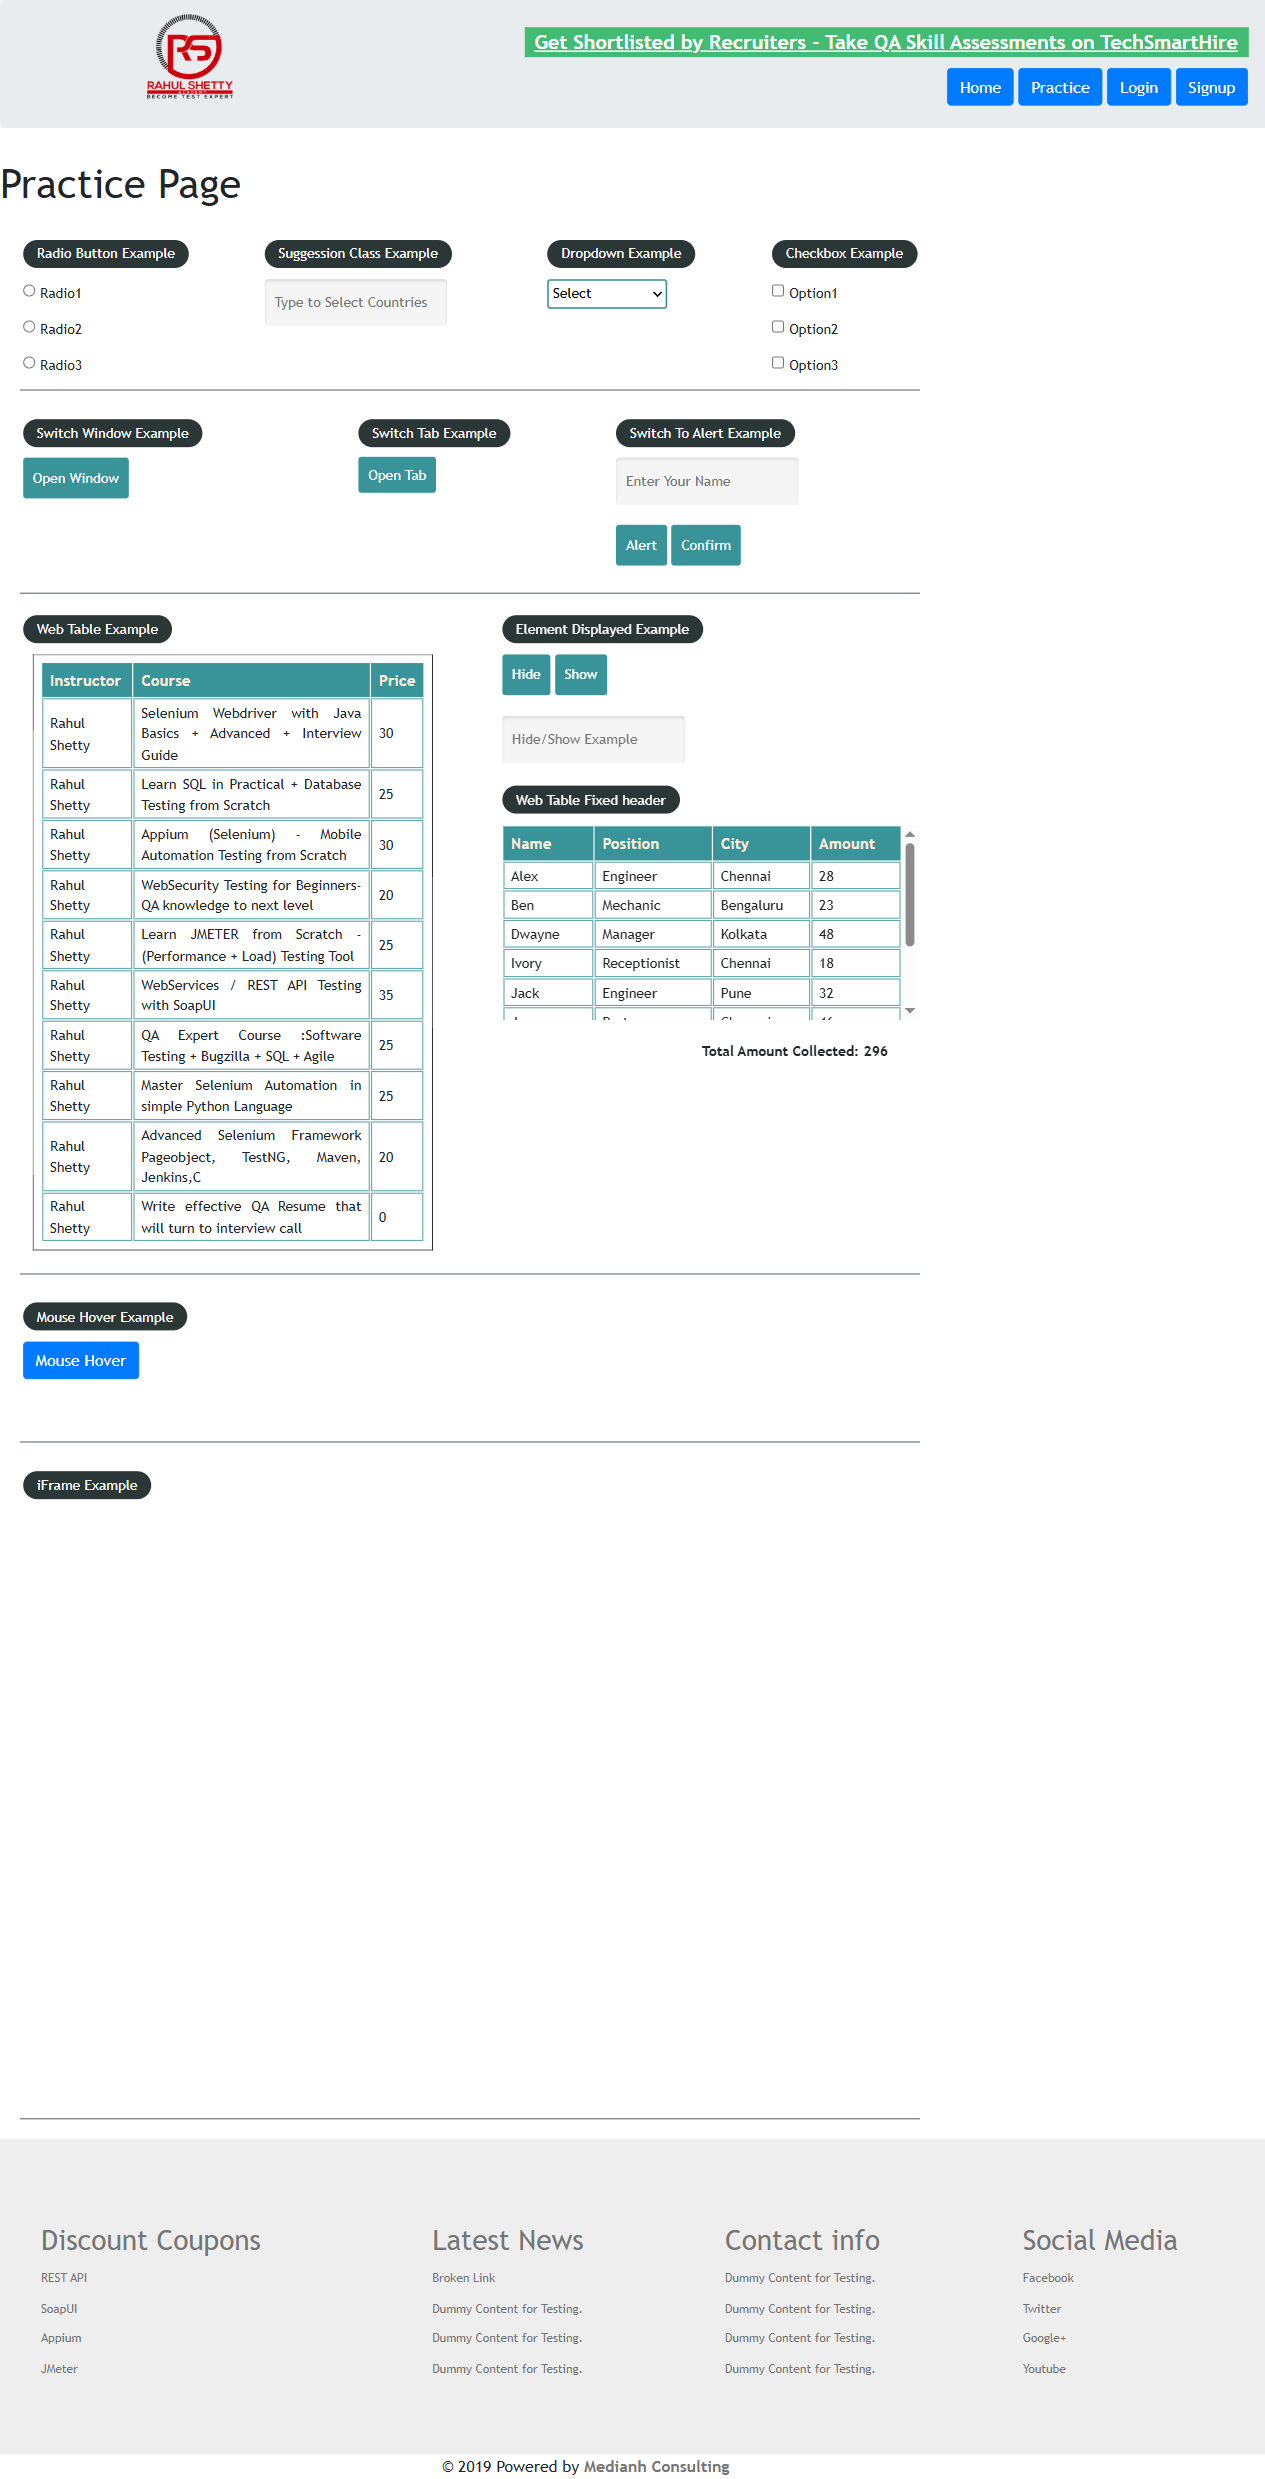
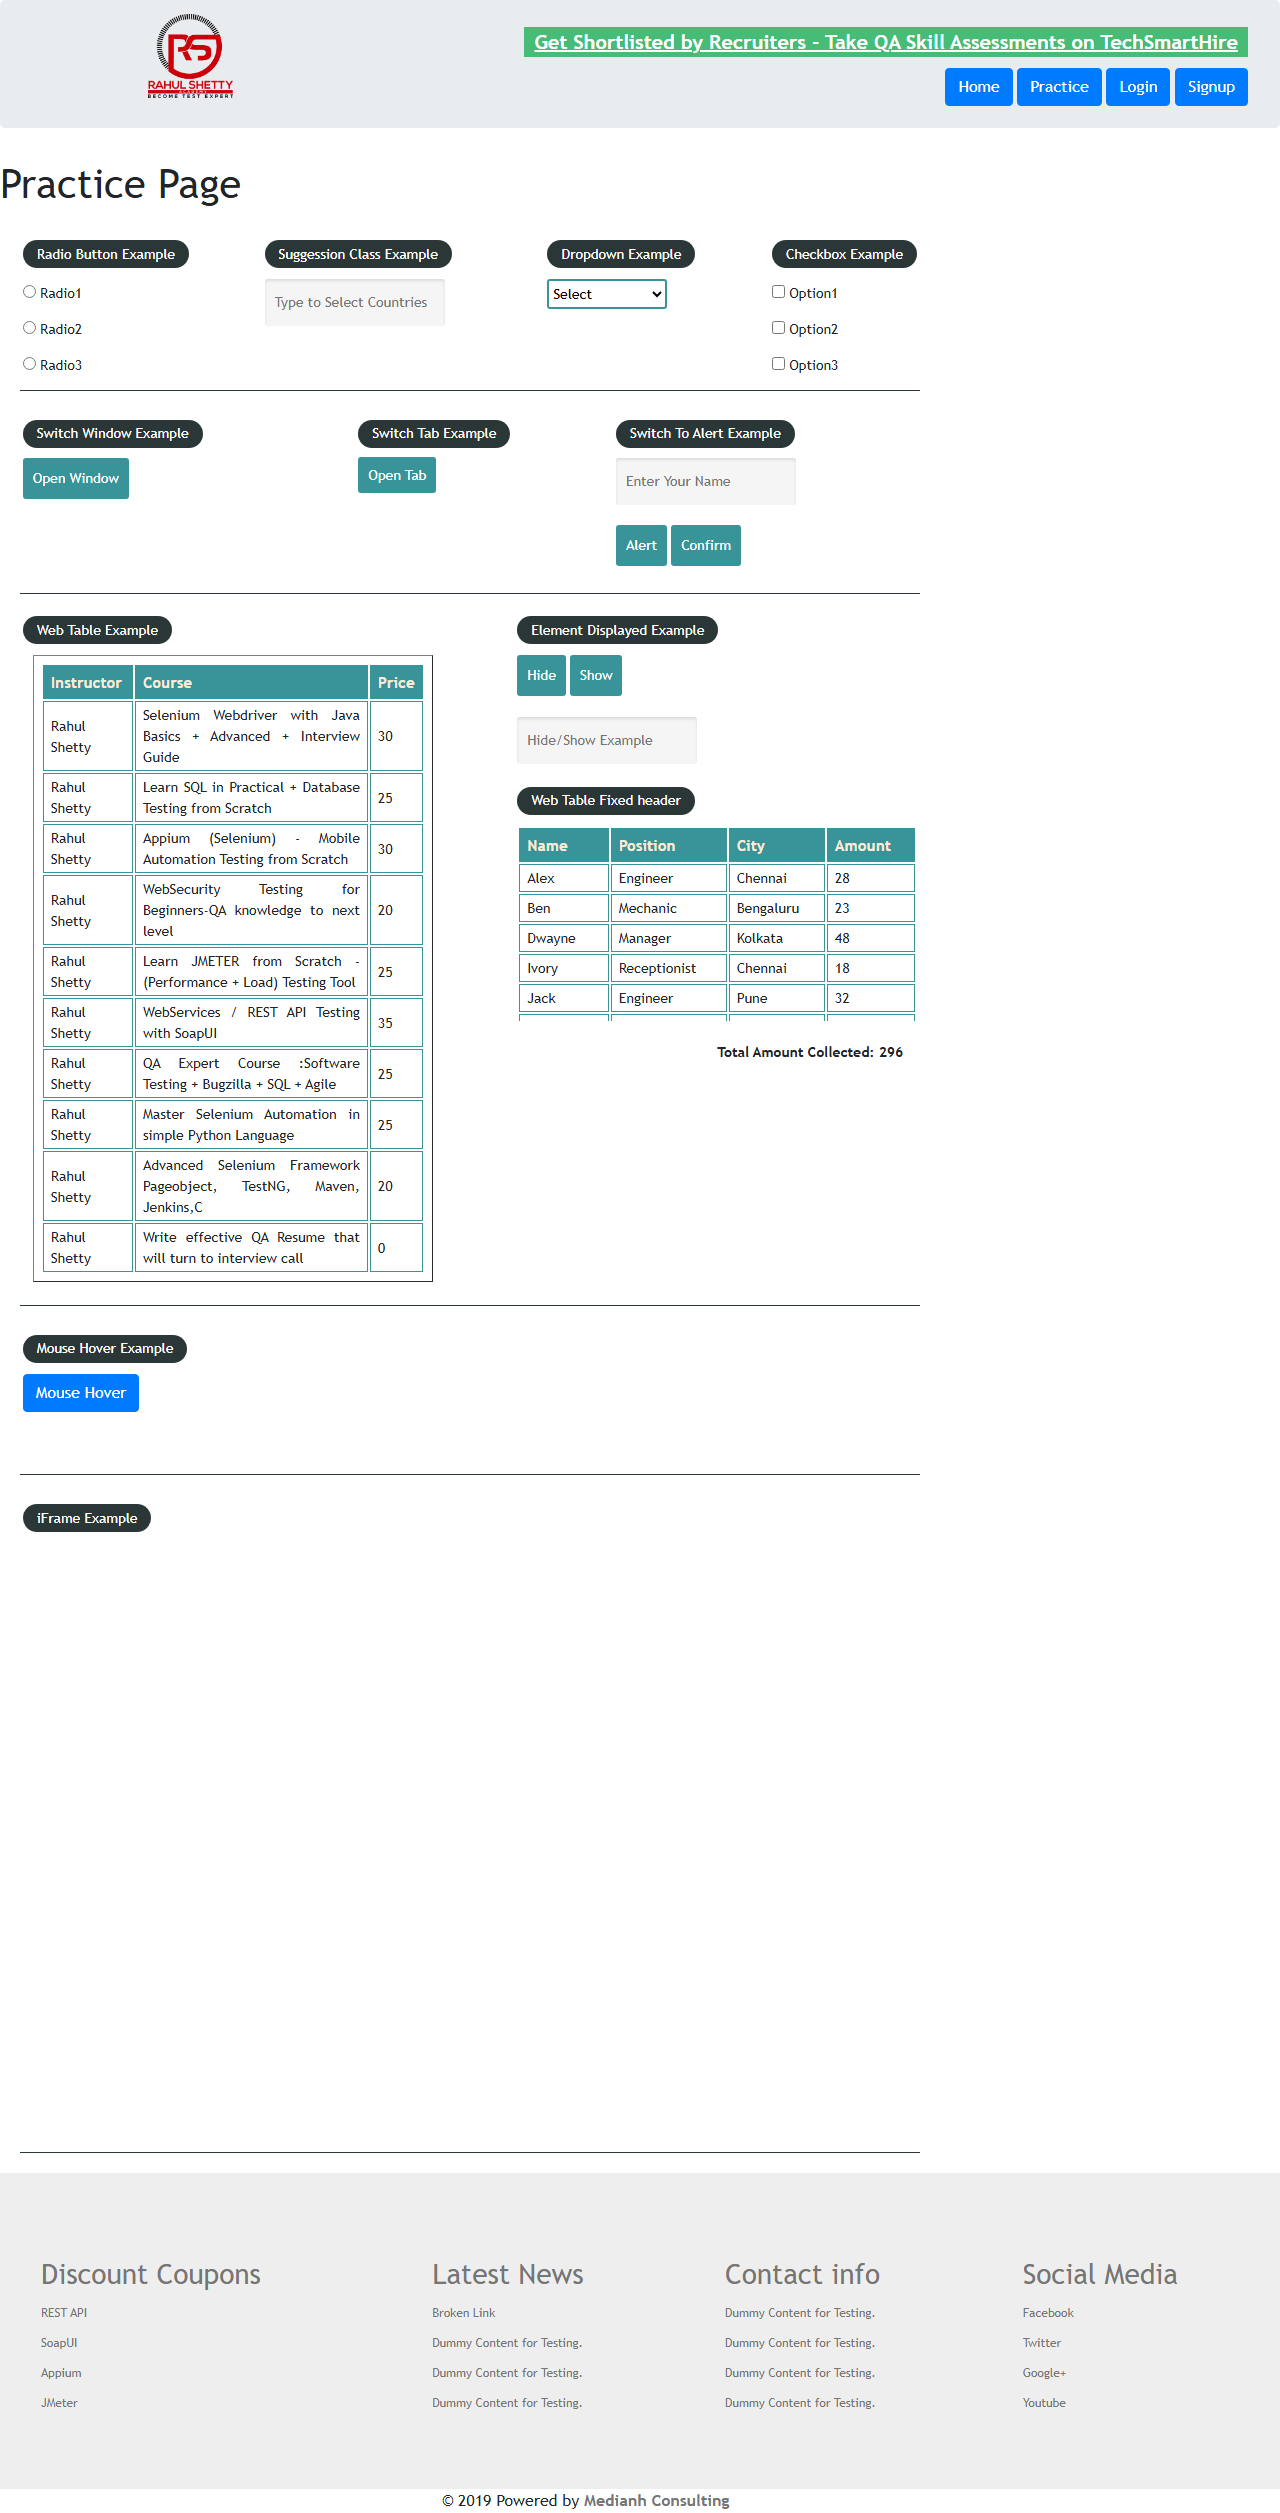
checkbox added

diff --git a/tests/checkbox.spec.ts b/tests/checkbox.spec.ts
@@ -1,0 +1,34 @@
+// Q5. Checkbox Group Validation
+// Scenario:
+// A permission settings page has 12 checkboxes grouped under "Admin", "Editor", and "Viewer" roles. You need to:
+// 1. Check all checkboxes under "Editor" role
+// 2. Uncheck all under "Viewer" role
+// 3. Assert exactly 4 checkboxes are now checked in total
+
+import test, { expect } from "@playwright/test";
+
+// Q6. Autocomplete / Typeahead Dropdown
+// Scenario:
+// A form has a country search field. When you type "Ind", a dropdown appears with options like "India", "Indiana (US)", "Indonesia". You must:
+// 1. Type "Ind" into the field
+// 2. Wait for the dropdown to appear
+// 3. Select exactly "India" (not partial matches)
+// 4. Assert the field now shows "India"
+ 
+// ✏ Write Playwright code handling the async dropdown appearance without waitForTimeout.
+
+// Q8. Multi-Select Listbox
+// Scenario:
+// A user management form has a multi-select <select> element listing 20 cities. You need to select "Mumbai", "Delhi", and "Bangalore" while leaving all others unselected.
+ 
+// ✏ Write Playwright code using page.locator('select').selectOption() to select multiple values and assert the selected count is exactly 3.
+
+test('test',async({page})=>{
+   await page.getByRole('combobox',{name:'Role'}).selectOption([{value:'Delhi'},{value:'Mumbai'},{value:'Banglore'}]);
+   await page.getByRole('alert').waitFor({state:'visible',timeout:3000})
+})
+
+
+
+
+

diff --git a/tests/Popup.spec.ts b/tests/Popup.spec.ts
@@ -1,6 +1,14 @@
 import test from "@playwright/test";
 
-test('handling alerts',async({page})=>{
+test('handling alerts @smoke',async({page})=>{
+    await page.goto('https://rahulshettyacademy.com/AutomationPractice/');
+    await page.on('dialog',dialog=>dialog.accept());
+    await page.locator('#confirmbtn').click();
+    await page.screenshot({ path: 'full_page.png', fullPage: true })
+    let frame=page.frameLocator('#courses-iframe');
+})
+
+test('handling alertse',async({page})=>{
     await page.goto('https://rahulshettyacademy.com/AutomationPractice/');
     await page.on('dialog',dialog=>dialog.accept());
     await page.locator('#confirmbtn').click();
